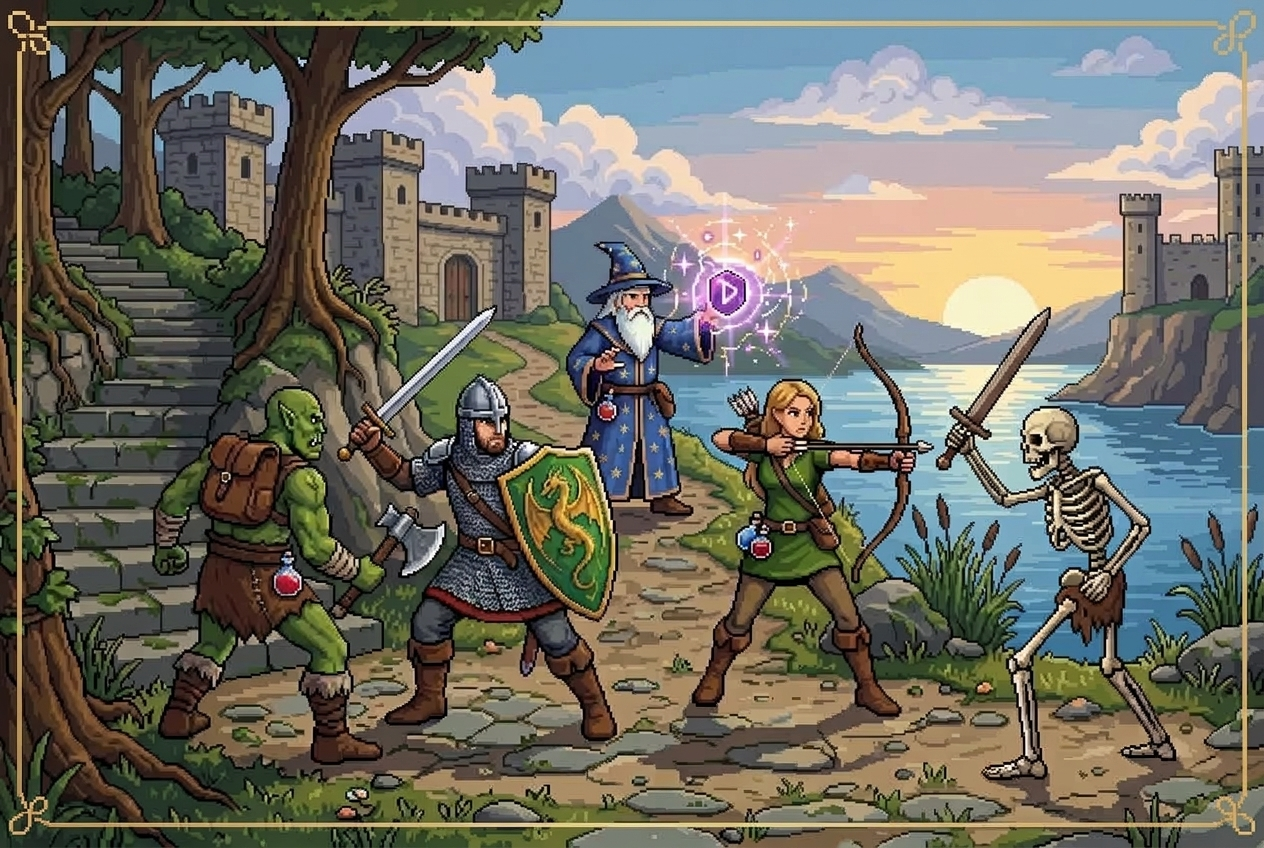
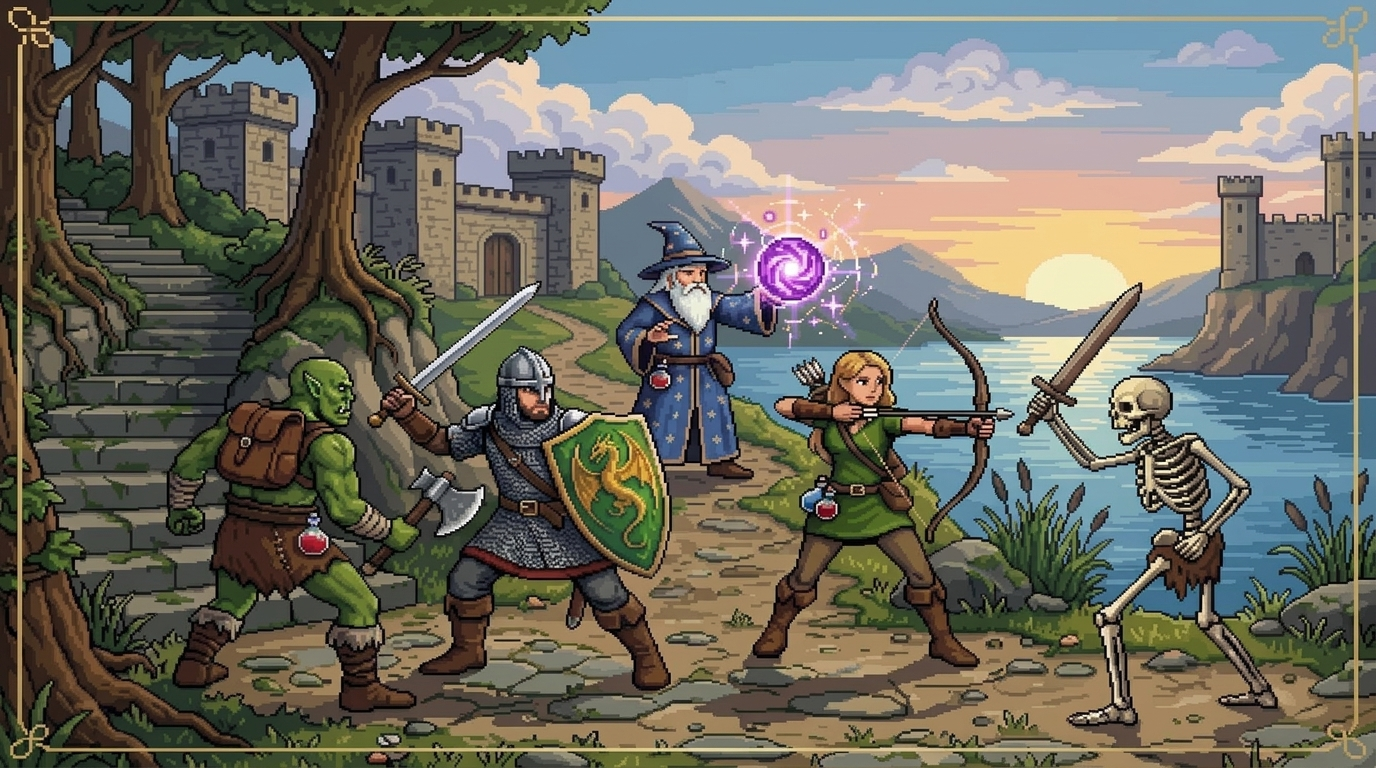
fix: align member name vertically in guild list by removing form margin

diff --git a/site/templates/tibiacom/basic.css b/site/templates/tibiacom/basic.css
@@ -1846,8 +1846,6 @@ body {
 
 
 /* Lightbox Zoom for News & Site Images (No borders) */
-.Content #News .BoxContent img,
-.Content #NewsArchive .BoxContent img,
 .news-zoomable {
     cursor: zoom-in !important;
     transition: transform 0.25s cubic-bezier(0.4, 0, 0.2, 1);
@@ -1857,8 +1855,6 @@ body {
     display: block;
 }
 
-.Content #News .BoxContent img:hover,
-.Content #NewsArchive .BoxContent img:hover,
 .news-zoomable:hover {
     transform: scale(1.02);
 }

diff --git a/site/templates/tibiacom/index.php b/site/templates/tibiacom/index.php
@@ -460,10 +460,10 @@ foreach($config['menu_categories'] as $id => $cat) {
 								<hr style="border: 0; border-bottom: 1px dashed #b98f79; margin: 5px 0;">
 								
 								<div style="float: right; margin-left: 10px;">
-									<img src="<?php echo $template_path; ?>/images/custom/featured_game.png" alt="Featured Game" style="border: 2px solid #5a4430; width: 150px; height: 100px;">
+									<img src="<?php echo $template_path; ?>/images/custom/featured_game.png" alt="Featured Game" style="border: 2px solid #5a4430; width: 130px; height: 100px; max-width: 130px; max-height: 100px; object-fit: cover; display: inline-block; cursor: default;">
 								</div>
 								<b>IP: <?php echo $_SERVER['SERVER_NAME'] ?? '127.0.0.1'; ?> - VERSION: 7.40 - PORT: 7171</b><br>
-								Aprenda a usar o <b>[<a href="?subtopic=shopsystem">SHOP Online</a>]</b> Aprenda a fazer uma <b>[<a href="?subtopic=donate">Donate</a>]</b> <span style="color: #004294; font-weight: bold; font-size: 16px;">&larr;</span><br>
+								Aprenda a usar o <b>[<a href="?subtopic=shopsystem">SHOP Online</a>]</b> Aprenda a fazer uma <b>[<a href="?subtopic=donate">Donate</a>]</b> <img src="<?php echo $template_path; ?>/images/custom/setas.gif" alt="&larr;" style="width: 60px; vertical-align: middle; margin-left: 5px;"><br>
 								<b>Oteserver</b> private OTServer, <b>[<a href="?subtopic=serverinfo">Server Info</a>]</b>.<br>
 								Utilizamos <b>Mapa Global 100%</b> com todas as Quests configuradas, todos os respawns e NPCS<br>
 								Servidor sem BUG, totalmente perfeito, segurança total e proteção contra DDoS.<br>
@@ -514,7 +514,7 @@ if (count($guilds) > 0) {
 			$logo = 'default.gif';
 		}
 		echo '		<td align="center" width="25%">
-			<img src="images/guilds/' . $logo . '" width="64" height="64" style="border: 1px solid #000; background-color: #111;"><br>
+			<a href="?subtopic=guilds&action=show&guild=' . urlencode($g['name']) . '"><img src="images/guilds/' . $logo . '" width="64" height="64" style="border: 1px solid #000;"></a><br>
 			<b><a href="?subtopic=guilds&action=show&guild=' . urlencode($g['name']) . '" style="color: #004294;">' . htmlspecialchars($g['name']) . '</a></b>
 		</td>';
 	}
@@ -576,6 +576,32 @@ if (count($guilds) > 0) {
     </div>
   </div>
 	<?php echo template_place_holder('body_end'); ?>
+
+<!-- Lightbox para ampliar imagens ao clicar -->
+<div id="tibia-lightbox-overlay" onclick="closeTibiaLightbox()">
+	<div id="tibia-lightbox-container">
+		<div id="tibia-lightbox-close" onclick="closeTibiaLightbox()">&times;</div>
+		<img id="tibia-lightbox-image" src="" alt="">
+	</div>
+</div>
+<script>
+function openTibiaLightbox(src) {
+	document.getElementById('tibia-lightbox-image').src = src;
+	document.getElementById('tibia-lightbox-overlay').classList.add('active');
+}
+function closeTibiaLightbox() {
+	document.getElementById('tibia-lightbox-overlay').classList.remove('active');
+}
+document.addEventListener('DOMContentLoaded', function() {
+	var imgs = document.querySelectorAll('.tibia-zoomable');
+	for (var i = 0; i < imgs.length; i++) {
+		imgs[i].style.cursor = 'pointer';
+		imgs[i].addEventListener('click', function() {
+			openTibiaLightbox(this.src);
+		});
+	}
+});
+</script>
 </body>
 </html>
 <?php
